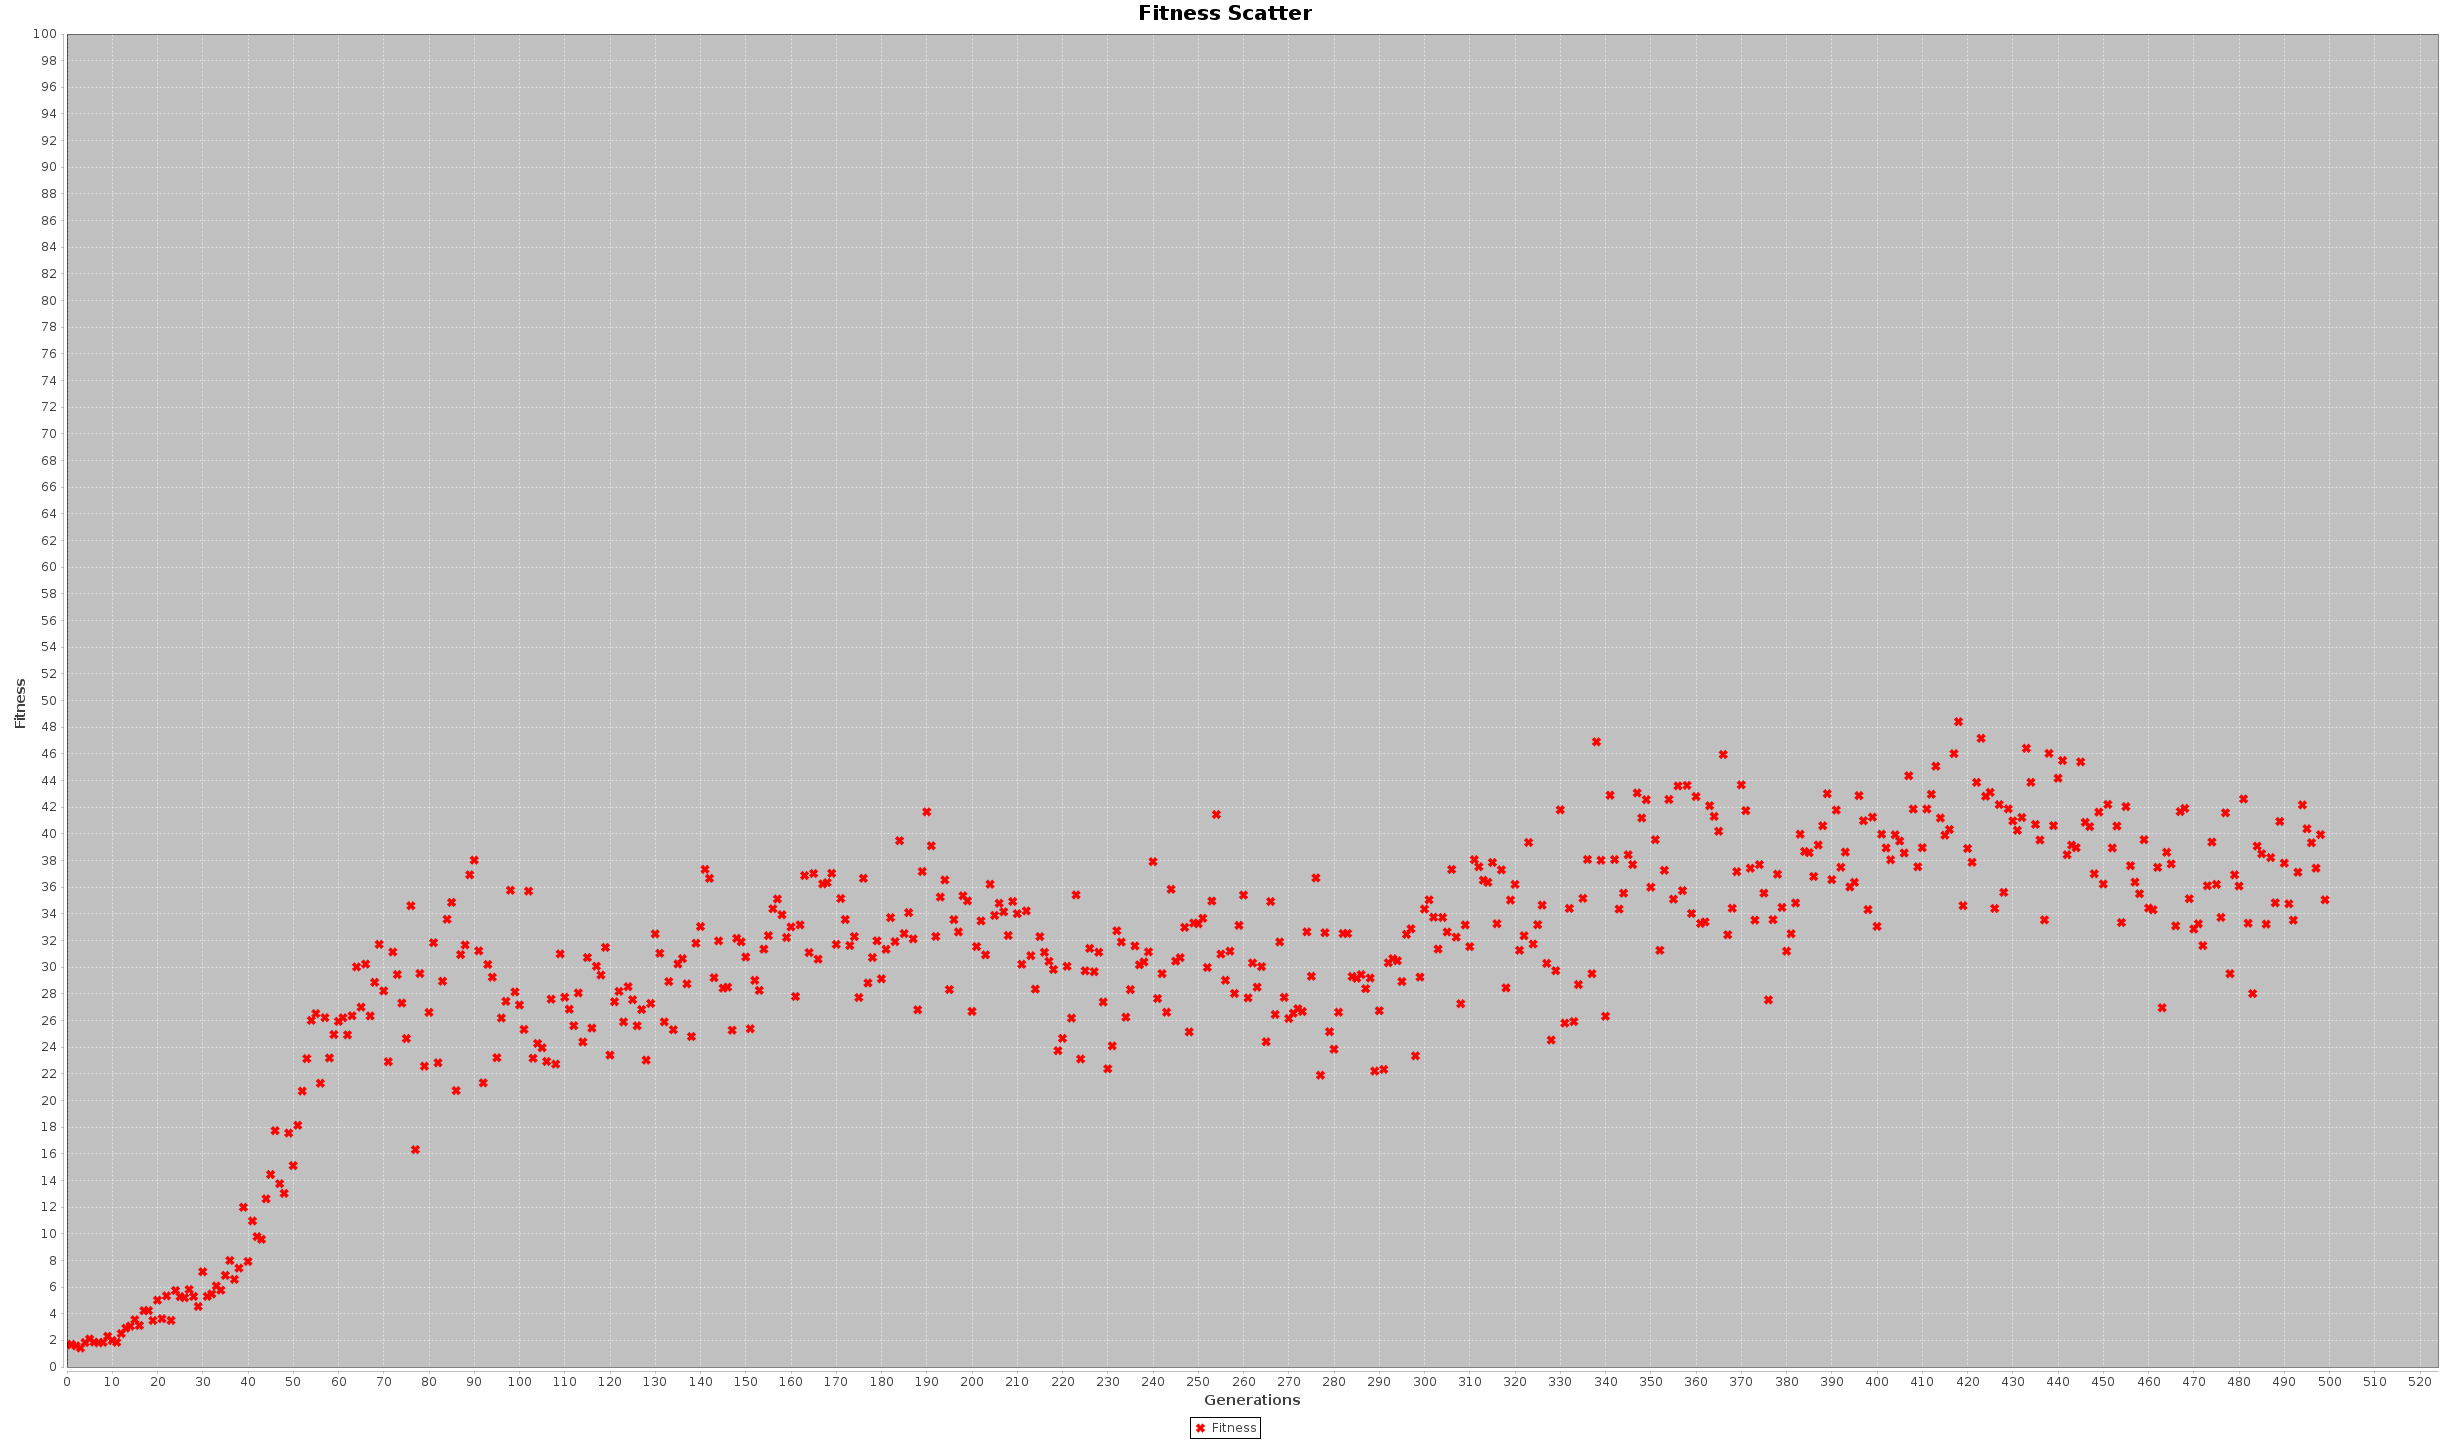
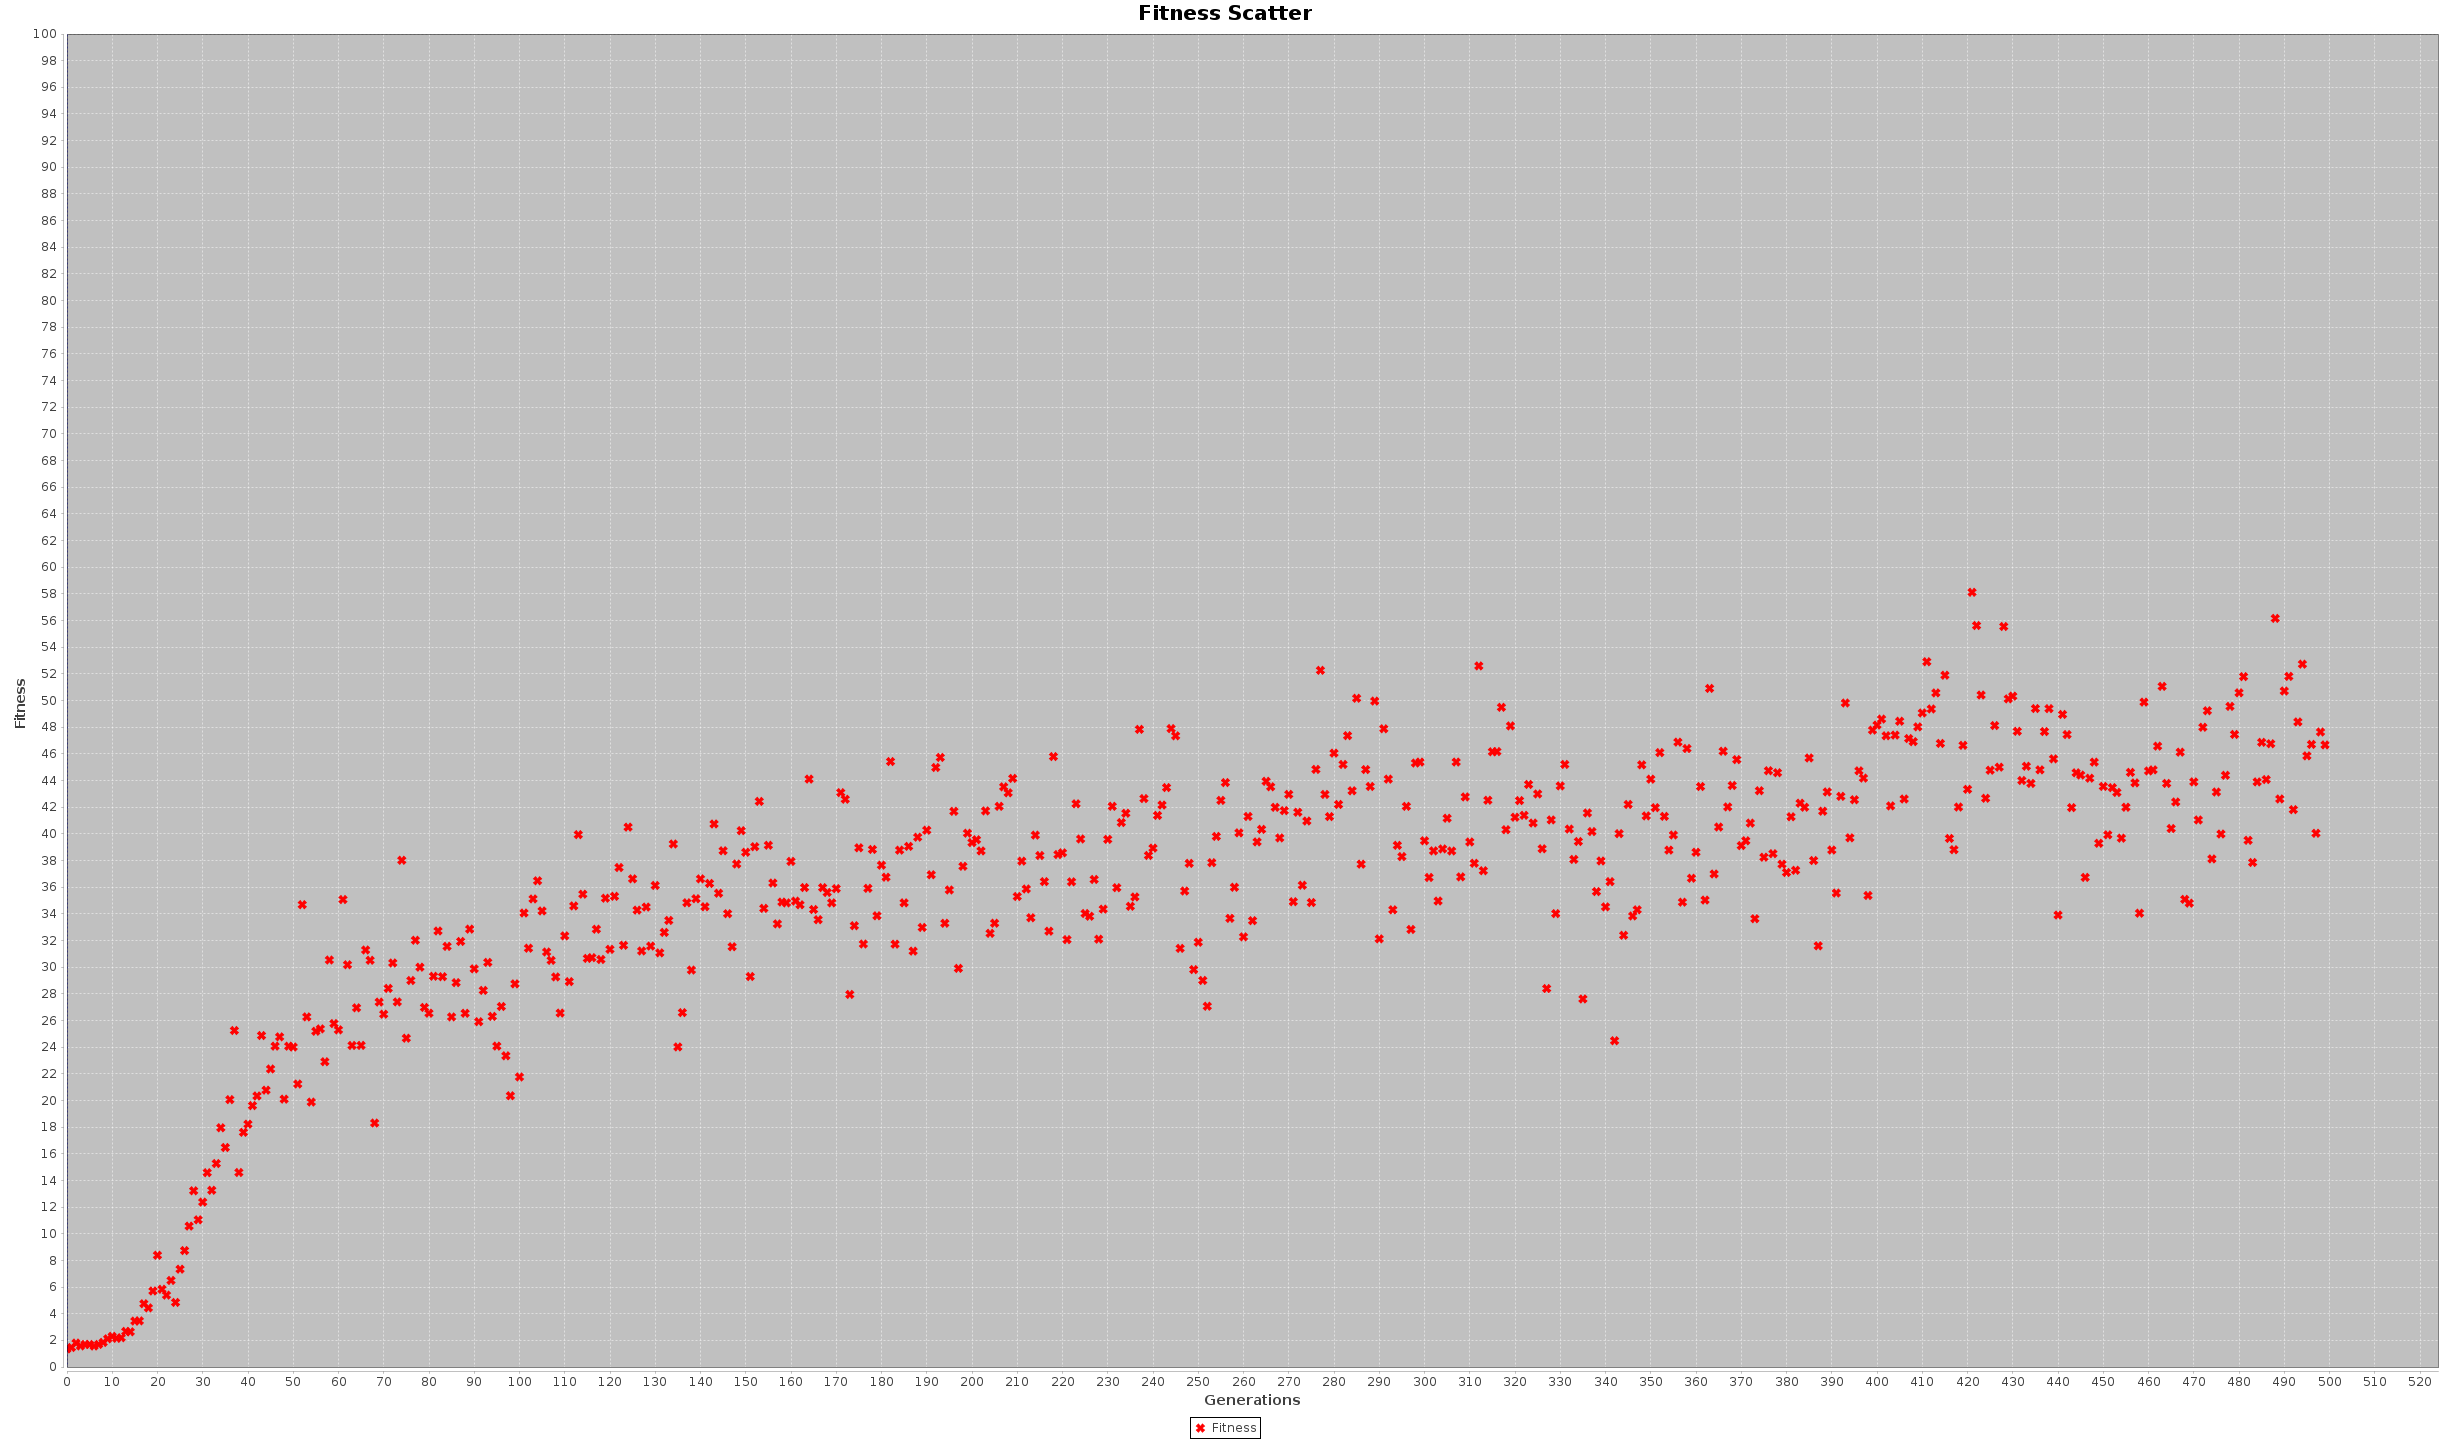
seeding implemented

diff --git a/src/util/RandomTool.java b/src/util/RandomTool.java
@@ -12,6 +12,6 @@ import java.util.Random;
  * @author curator
  */
 public class RandomTool {
-    
+    private static final long SEED = 10;
     public static final Random random = new Random();
 }
